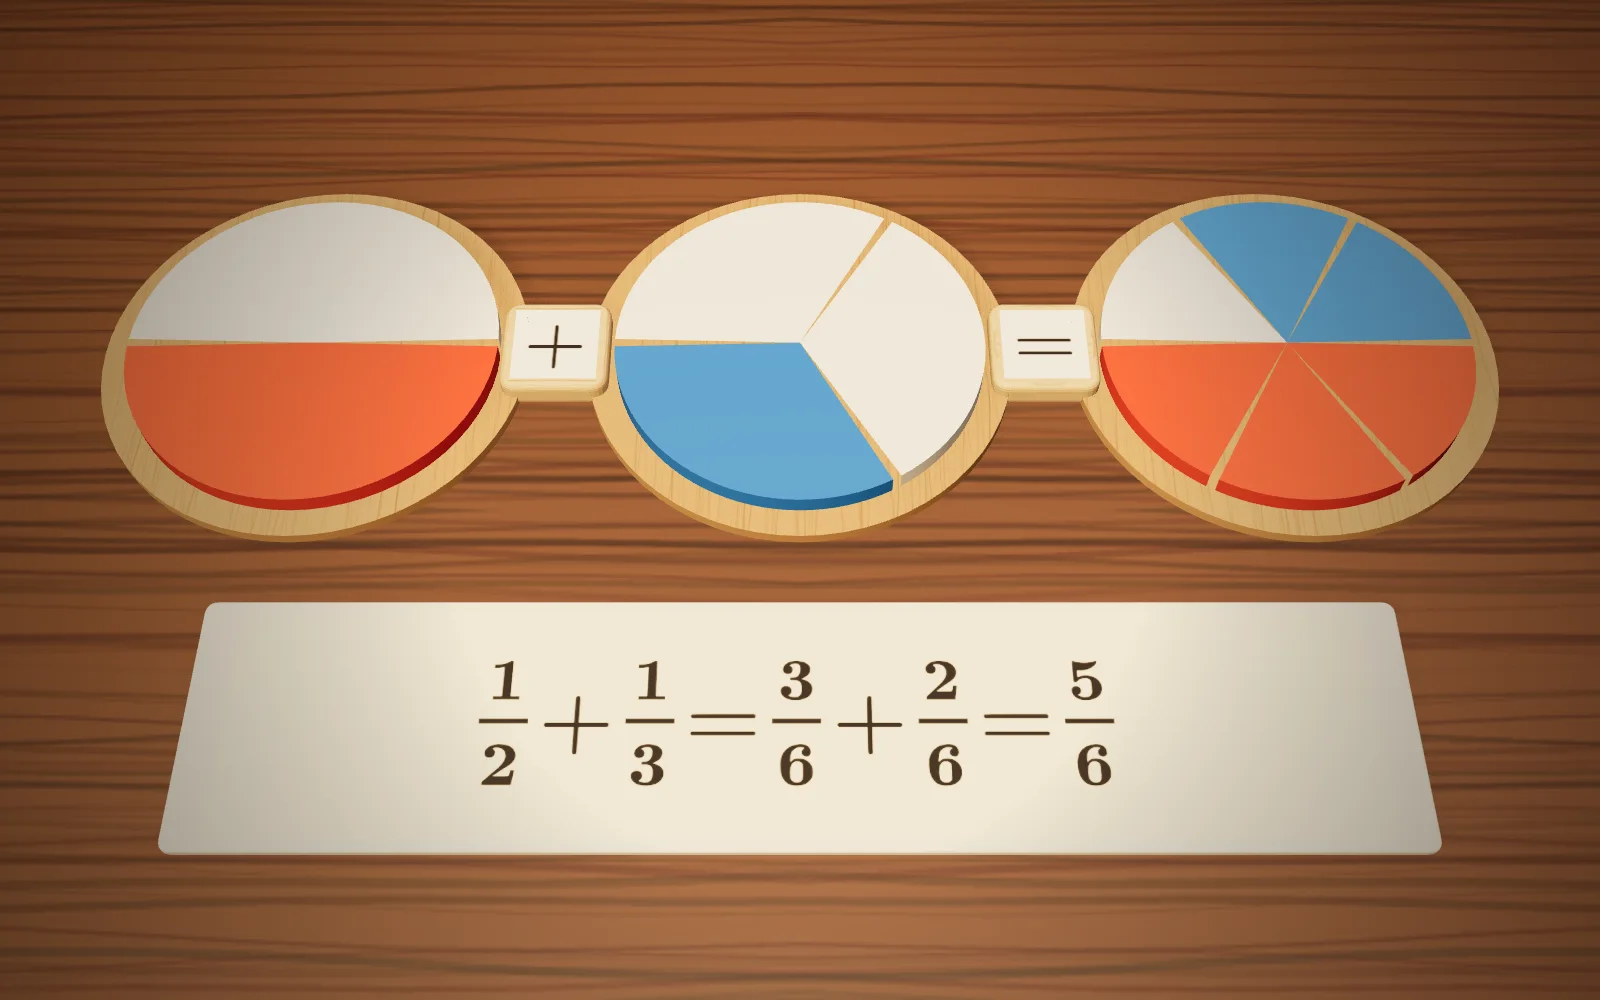
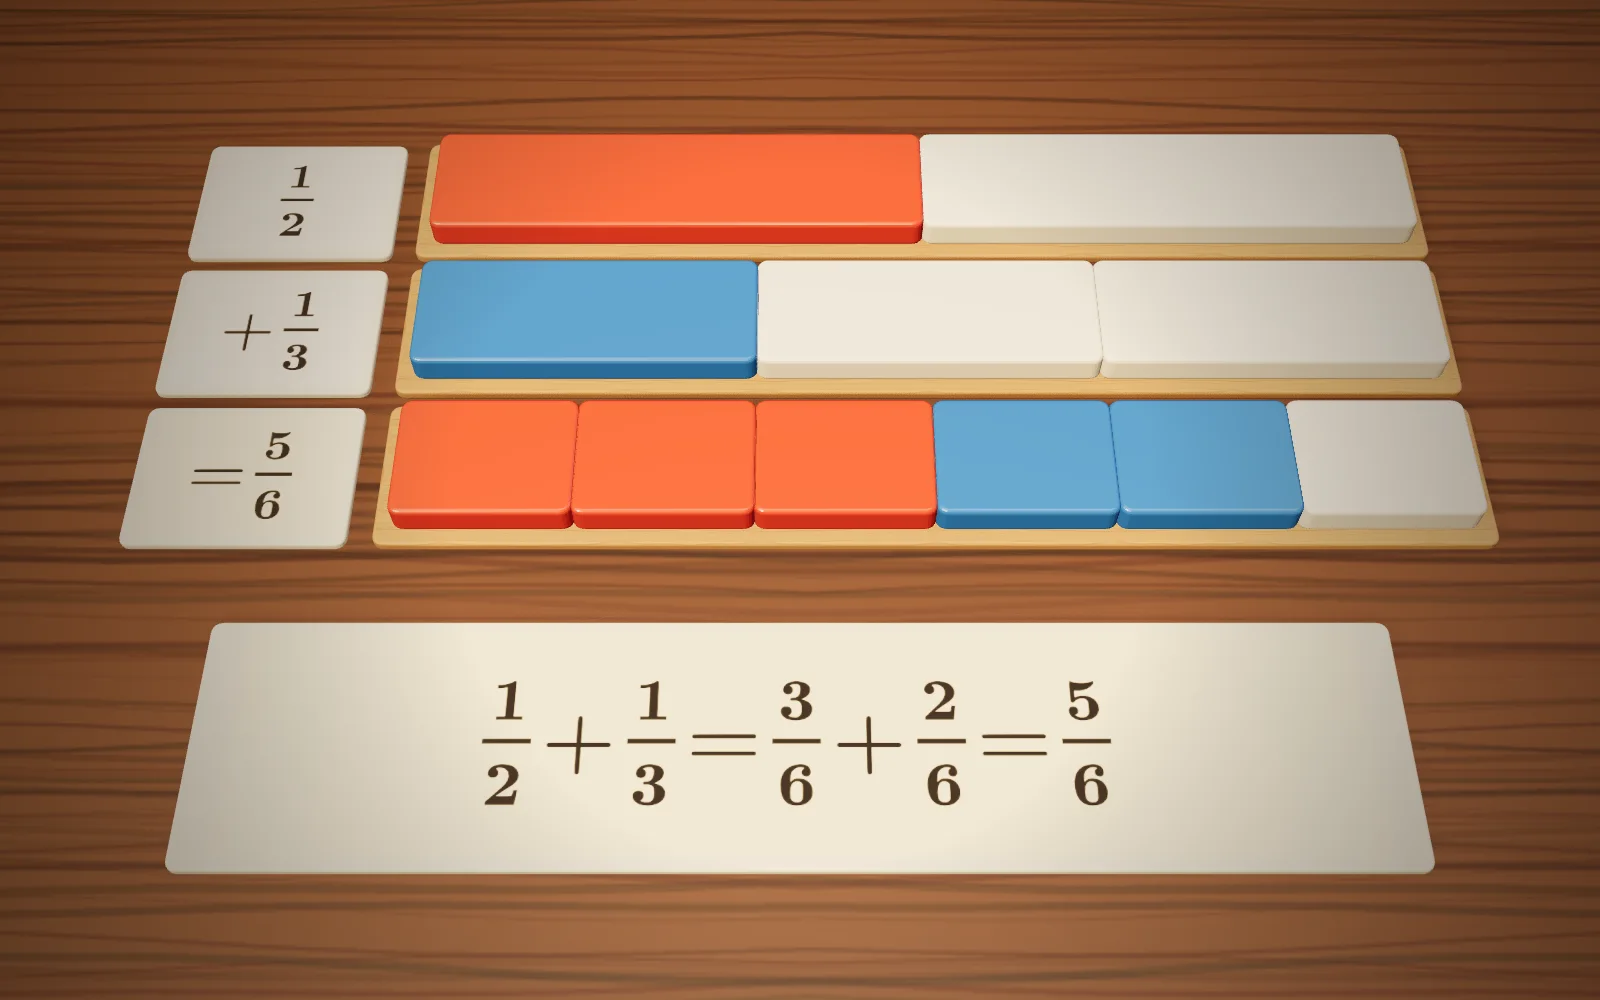
수의 마법 C-22 수업 그림: 분수 원판 → 분수 막대 세 줄
- 3D 장면: 길이가 같은 막대 세 줄(2등분·3등분·6등분), 줄 앞 이름표, 아래 식 카드
- 움직임: 반쪽과 3분의 1쪽이 6등분 막대 위로 가서 크기를 견주고 돌아온다
- 정지 그림(C-22.webp) 다시 굽고 그림 설명 글(ko·en·zh)을 막대로 고침
- 오프라인 목록 다시 만듦

Claude-Session: https://claude.ai/code/session_01T6HCktzZTCy63PeQAnPr61

diff --git a/number_magic/app/hero3d/scenes-e3.js b/number_magic/app/hero3d/scenes-e3.js
@@ -114,7 +114,8 @@ export const SCENES_E3 = {
     k.lights(Object.assign({}, LIGHT, { spotAt:[0, 0, -0.3] }));
   }},
 
-  /* 분수 덧뺄셈(다른 분모) — stage ①②: 반쪽 1/2 과 3분의 1쪽 1/3 은 크기가 달라 6등분으로 다시 잘라 3/6 + 2/6 = 5/6 */
+  /* 분수 덧뺄셈(다른 분모) — stage ①②: 반쪽 1/2 과 3분의 1쪽 1/3 은 크기가 달라 6등분으로 다시 잘라 3/6 + 2/6 = 5/6.
+     그림은 종이 교구와 같은 분수 막대 세 줄(원장 2026-11-10 「분수 막대로 바꿔」) — 길이가 같은 막대라 왼쪽 끝을 맞추면 크기가 바로 견줘진다. */
   'C-22': { seed:2201, caps:{ P:8, list:[
     [0.0, "반쪽 $\\dfrac{1}{2}$과 $\\dfrac{1}{3}$쪽은 조각 크기가 달라서 바로 못 더해요.", "Half, $\\dfrac{1}{2}$, and a third, $\\dfrac{1}{3}$, are different sizes, so we cannot just add.", "$\\dfrac{1}{2}$和$\\dfrac{1}{3}$的块大小不同，不能直接相加。"],
     [0.3, "둘 다 $6$조각으로 다시 잘라요: $\\dfrac{1}{2}=\\dfrac{3}{6}$, $\\dfrac{1}{3}=\\dfrac{2}{6}$", "Cut both into $6$ pieces: $\\dfrac{1}{2}=\\dfrac{3}{6}$, $\\dfrac{1}{3}=\\dfrac{2}{6}$.", "都重新切成$6$块：$\\dfrac{1}{2}=\\dfrac{3}{6}$，$\\dfrac{1}{3}=\\dfrac{2}{6}$。"],
@@ -122,33 +123,37 @@ export const SCENES_E3 = {
     [0.82, "그래서 $\\dfrac{1}{2}+\\dfrac{1}{3}=\\dfrac{5}{6}$이에요.", "So $\\dfrac{1}{2}+\\dfrac{1}{3}=\\dfrac{5}{6}$.", "所以$\\dfrac{1}{2}+\\dfrac{1}{3}=\\dfrac{5}{6}$。"]
   ]},
     build(k){
-    const { THREE, scene } = k;
-    k.frame([0, 0, -0.05], 5.8, 58);
+    k.frame([-0.03, 0, -0.1], 5.9, 58);
     k.table();
-    const R = 0.78, CZ = -0.75, H = 0.08;
+    /* 길이가 같은 막대 세 줄: 2등분(반쪽 빨강) · 3등분(한 칸 파랑) · 6등분(빨강 3칸 + 파랑 2칸) */
+    const L = 4.4, D = 0.52, H = 0.14, X0 = -1.68, GAP = 0.03, Y0 = 0.05, ZR = [-1.7, -0.95, -0.2];
     const red = k.plastic('#d0462f', 0.3), blue = k.plastic('#3a7cc4', 0.3), pale = k.plastic('#efe4cf', 0.5);
-    const disk = (cx, n, mats) => {
-      const base = new THREE.Mesh(new THREE.CylinderGeometry(R + 0.12, R + 0.12, 0.05, 64), k.woodMat('#b98a55', [110, 70, 35]));
-      base.position.set(cx, 0.025, CZ); base.castShadow = base.receiveShadow = true; scene.add(base);
-      const A = Math.PI * 2 / n, S = -Math.PI / 2;           /* 첫 조각이 앞(+z) 쪽에서 시작 */
-      return mats.map((m, i) => {
-        const mesh = new THREE.Mesh(new THREE.CylinderGeometry(R, R, H, 32, 1, false, S + i * A + 0.025, A - 0.05), m);
-        mesh.castShadow = mesh.receiveShadow = true;
-        const g = new THREE.Group(); g.add(mesh); g.position.set(cx, 0.05 + H / 2, CZ); scene.add(g); return g; }); };
-    const half = disk(-2.05, 2, [red, pale]);
-    const third = disk(0, 3, [blue, pale, pale]);
-    const sixth = disk(2.05, 6, [red, red, red, blue, blue, pale]);
-    tileF(k, '+', -1.03, CZ, { w:0.4, d:0.4, h:0.12, fs:0.3 });
-    tileF(k, '=', 1.03, CZ, { w:0.4, d:0.4, h:0.12, fs:0.3 });
-    const eq = cardF(k, [{ n:'1', d:'2' }, '+', { n:'1', d:'3' }, '=', { n:'3', d:'6' }, '+', { n:'2', d:'6' }, '=', { n:'5', d:'6' }], 0, 0.95, { w:4.6, d:1.0, fs:0.32, bg:'#f1e0b8' });
-    /* 움직임: 반쪽 → 3분의 1쪽 → 6등분의 빨간 3조각 → 파란 2조각 → 5조각 함께 → 식 카드 */
-    const y0 = 0.05 + H / 2;
+    const tray = k.woodMat('#b98a55', [110, 70, 35]);
+    const bar = (z, mats) => {
+      k.tile(null, X0 + L / 2, z, { w:L + 0.14, d:D + 0.14, h:Y0, side:tray, rad:0.04 });
+      const w = L / mats.length;
+      return mats.map((m, i) => k.tile(null, X0 + w * (i + 0.5), z, { w:w - GAP, d:D, h:H, y:Y0, side:m, rad:0.035 })); };
+    const half = bar(ZR[0], [red, pale]);
+    const third = bar(ZR[1], [blue, pale, pale]);
+    const sixth = bar(ZR[2], [red, red, red, blue, blue, pale]);
+    /* 줄 앞 이름표: 1/2 · + 1/3 · = 5/6 */
+    const LO = { w:0.9, d:0.66, fs:0.27 };
+    cardF(k, [{ n:'1', d:'2' }], X0 - 0.65, ZR[0], LO);
+    cardF(k, ['+', { n:'1', d:'3' }], X0 - 0.65, ZR[1], LO);
+    cardF(k, ['=', { n:'5', d:'6' }], X0 - 0.65, ZR[2], Object.assign({}, LO, { bg:'#f1e0b8' }));
+    const eq = cardF(k, [{ n:'1', d:'2' }, '+', { n:'1', d:'3' }, '=', { n:'3', d:'6' }, '+', { n:'2', d:'6' }, '=', { n:'5', d:'6' }], -0.03, 1.0, { w:4.6, d:1.0, fs:0.32, bg:'#f1e0b8' });
+    /* 움직임: 반쪽·3분의 1쪽이 한 번씩 → 반쪽이 6등분 막대의 빨간 3칸 위로 가서 크기를 견주고 돌아옴 →
+       3분의 1쪽이 파란 2칸 위로 가서 견주고 돌아옴 → 5칸 함께 → 식 카드 */
+    const hx = half[0].position.x, tx = third[0].position.x, bx = X0 + L * 4 / 6;   /* bx = 파란 2칸의 가운데 */
+    const trip = (p, a) => seg(p, a, a + 0.05) * (1 - seg(p, a + 0.1, a + 0.15));
     k.onFrame(t => { const p = cyc(t, 8);
-      half[0].position.y = y0 + 0.22 * hop(p, 0.05, 0.18);
-      third[0].position.y = y0 + 0.22 * hop(p, 0.14, 0.27);
-      sixth.forEach((g, i) => { if(i > 4) return; const a = i < 3 ? 0.32 : 0.44; g.position.y = y0 + 0.2 * Math.max(hop(p, a + (i % 3) * 0.02, a + 0.12), hop(p, 0.6, 0.74)); });
+      const ur = trip(p, 0.3), ub = trip(p, 0.45);
+      half[0].position.set(hx, Y0 + 0.22 * hop(p, 0.05, 0.18) + 0.36 * Math.min(1, ur * 3), ZR[0] + (ZR[2] - ZR[0]) * ur);
+      third[0].position.set(tx + (bx - tx) * ub, Y0 + 0.22 * hop(p, 0.14, 0.27) + 0.36 * Math.min(1, ub * 3), ZR[1] + (ZR[2] - ZR[1]) * ub);
+      sixth.forEach((g, i) => { if(i > 4) return; const a = i < 3 ? 0.34 : 0.49;
+        g.position.y = Y0 + Math.max(0.1 * hop(p, a, a + 0.08), 0.2 * hop(p, 0.6 + i * 0.01, 0.74)); });
       eq.position.y = 0.16 * hop(p, 0.82, 0.94); });
-    k.lights(LIGHT);
+    k.lights(Object.assign({}, LIGHT, { spotAt:[0, 0, -0.5] }));
   }},
 
   /* 분수의 곱셈 — stage ①: 2/3 × 4/5 = 8/15. 3줄로 나눠 2줄, 그 2줄을 5칸으로 나눠 4칸씩 */

diff --git a/number_magic/data/hero3d.js b/number_magic/data/hero3d.js
@@ -125,7 +125,7 @@ window.NM_HERO3D = {
   'A-36': { alt:{ ko:"나무 블록으로 2.3과 1.4를 세로셈으로 놓고, 소수점 자리에 빨간 구슬을 두었어요. 가로줄 아래에 답 3.7이 있고, 오른쪽 카드에는 0.3 + 0.4 = 0.7, 2 + 1 = 3, 2.3 + 1.4 = 3.7이 적혀 있어요.", en:"Wooden blocks set up 2.3 + 1.4 as column addition, with red beads as decimal points and the answer 3.7 below a rod. Cards on the right read 0.3 + 0.4 = 0.7, 2 + 1 = 3 and 2.3 + 1.4 = 3.7.", zh:"木块把2.3和1.4摆成竖式，红珠子是小数点，横杆下面是答案3.7。右边卡片写着0.3 + 0.4 = 0.7、2 + 1 = 3、2.3 + 1.4 = 3.7。" } },
   'C-25': { alt:{ ko:"숫자 블록 4, 3 사이와 0, 0, 7 중 첫 0 뒤에 빨간 구슬 소수점이 있어 4.3과 0.07을 보여 줘요. 앞쪽 카드에는 43 × 0.1 = 4.3과 7 × 0.01 = 0.07이 있어요.", en:"A red bead acting as the decimal point sits between blocks 4 and 3, and after the first 0 in 0, 0, 7, showing 4.3 and 0.07. Cards in front read 43 × 0.1 = 4.3 and 7 × 0.01 = 0.07.", zh:"红珠子当作小数点，放在数字块4和3之间，以及0、0、7的第一个0后面，表示4.3和0.07。前面的卡片写着43 × 0.1 = 4.3和7 × 0.01 = 0.07。" } },
   'C-04': { alt:{ ko:"블록 4 × 7 × 25가 놓여 있고, 황금 쌍인 4와 25는 금빛 블록이에요. 가운데 카드에는 (4 × 25) × 7 = 100 × 7 = 700, 앞줄 카드에는 4 × 25 = 100, 2 × 50 = 100, 5 × 20 = 100, 8 × 125 = 1000이 있어요.", en:"Blocks show 4 × 7 × 25, with the golden pair 4 and 25 in gold. The middle card reads (4 × 25) × 7 = 100 × 7 = 700, and the front cards read 4 × 25 = 100, 2 × 50 = 100, 5 × 20 = 100 and 8 × 125 = 1000.", zh:"木块摆出4 × 7 × 25，黄金搭档4和25是金色的。中间卡片写着(4 × 25) × 7 = 100 × 7 = 700，前排卡片写着4 × 25 = 100、2 × 50 = 100、5 × 20 = 100、8 × 125 = 1000。" } },
-  'C-22': { alt:{ ko:"분수 원판 세 개가 있어요. 반쪽이 빨간 원판, 3분의 1쪽이 파란 원판, 그리고 6조각 중 빨강 3조각과 파랑 2조각이 칠해진 원판이에요. 아래 카드에는 2분의 1 + 3분의 1 = 6분의 3 + 6분의 2 = 6분의 5가 있어요.", en:"Three fraction discs: one with a red half, one with a blue third, and one cut into 6 with 3 red and 2 blue pieces. The card below reads 1 over 2 + 1 over 3 = 3 over 6 + 2 over 6 = 5 over 6.", zh:"三个分数圆盘：一个红色的一半，一个蓝色的三分之一，还有一个切成6块，其中3块红、2块蓝。下面的卡片写着2分之1 + 3分之1 = 6分之3 + 6分之2 = 6分之5。" } },
+  'C-22': { alt:{ ko:"길이가 같은 분수 막대 세 줄이 있어요. 첫 줄은 둘로 나눠 반쪽이 빨강, 둘째 줄은 셋으로 나눠 한 칸이 파랑, 셋째 줄은 여섯으로 나눠 빨강 3칸과 파랑 2칸이에요. 아래 카드에는 2분의 1 + 3분의 1 = 6분의 3 + 6분의 2 = 6분의 5가 있어요.", en:"Three fraction bars of the same length: the first is cut in 2 with one red half, the second is cut in 3 with one blue part, and the third is cut in 6 with 3 red and 2 blue parts. The card below reads 1 over 2 + 1 over 3 = 3 over 6 + 2 over 6 = 5 over 6.", zh:"三条一样长的分数条：第一条分成2份，其中一半是红色；第二条分成3份，其中1份是蓝色；第三条分成6份，其中3份红、2份蓝。下面的卡片写着2分之1 + 3分之1 = 6分之3 + 6分之2 = 6分之5。" } },
   'C-31': { alt:{ ko:"3줄 5칸 블록판에서 위 2줄이 주황색이고, 그중 왼쪽 4칸씩 모두 8칸이 진한 주황이에요. 옆에 3분의 2, 위에 5분의 4 카드가 있고, 아래 카드에는 3분의 2 × 5분의 4 = 15분의 8이 있어요.", en:"A 3-by-5 board of blocks: the top 2 rows are orange, and 8 blocks, the left 4 of each of those rows, are dark orange. Cards show 2 over 3 at the side and 4 over 5 on top, and the card below reads 2 over 3 × 4 over 5 = 8 over 15.", zh:"3行5列的木块板，上面2行是橙色，其中每行左边4块、共8块是深橙色。旁边有3分之2的卡片，上面有5分之4的卡片，下面的卡片写着3分之2 × 5分之4 = 15分之8。" } },
   'C-32': { alt:{ ko:"블록 600 + 40 + 35 아래에 600 ÷ 4 = 150, 40 ÷ 4 = 10, 35 ÷ 4 = 8.75 카드가 있어요. 맨 앞 카드에는 675 ÷ 4 = 4분의 675 = 168.75가 있어요.", en:"Below the blocks 600 + 40 + 35 are cards reading 600 ÷ 4 = 150, 40 ÷ 4 = 10 and 35 ÷ 4 = 8.75. The front card reads 675 ÷ 4 = 675 over 4 = 168.75.", zh:"木块600 + 40 + 35下面是卡片600 ÷ 4 = 150、40 ÷ 4 = 10、35 ÷ 4 = 8.75。最前面的卡片写着675 ÷ 4 = 4分之675 = 168.75。" } },
   'C-05': { alt:{ ko:"나무 쟁반에 구슬 16개가 4×4로 놓여 있어요. 빨강 1개, 노랑 3개, 초록 5개, 파랑 7개가 ㄱ자로 둘러 붙어 있어요. 오른쪽 카드에는 1 = 1 × 1부터 1 + 3 + 5 + 7 = 4 × 4까지 있어요.", en:"Sixteen beads sit in a 4-by-4 square on a wooden tray, wrapped in corner-shaped layers: 1 red, 3 yellow, 5 green and 7 blue. Cards on the right go from 1 = 1 × 1 to 1 + 3 + 5 + 7 = 4 × 4.", zh:"木托盘上16颗珠子排成4×4，按拐角一层层围起来：1颗红、3颗黄、5颗绿、7颗蓝。右边卡片从1 = 1 × 1写到1 + 3 + 5 + 7 = 4 × 4。" } },
